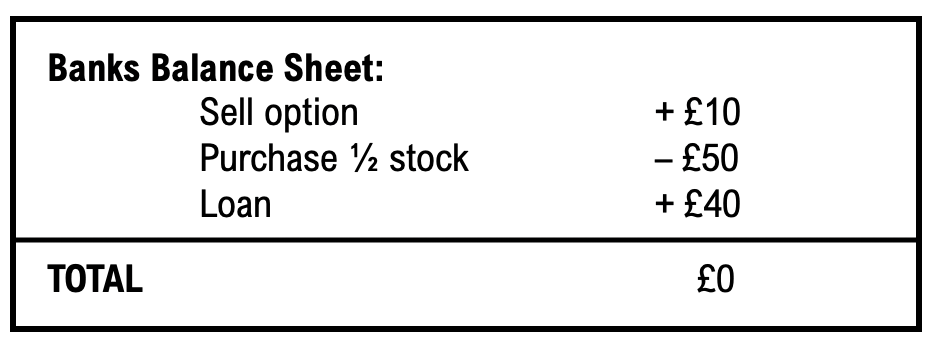
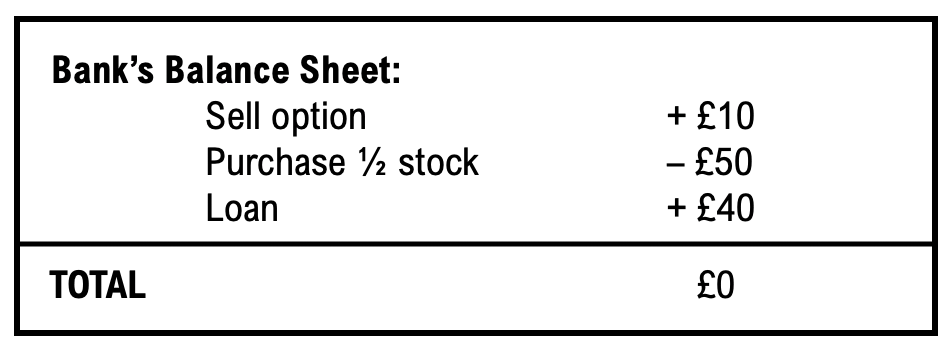
Edits to spelling and form

diff --git a/source/_posts/money-for-nothing.md b/source/_posts/money-for-nothing.md
@@ -14,21 +14,21 @@ description: "Who would have thought that such a seemingly obvious decision coul
 cover: /banners/money-for-nothing.jpg
 katex: true
 ---
-Utilising the concept of arbitrage can be a lucrative opportunity when done correctly. Yet somehow, when done incorrectly, the results can be even more propitious (at least for one of the parties involved). In this post, we will walk through a paradox related to arbitrage in which the seeming obvious fair price for an asset results in a strategy for obtaining infinite wealth.
+Utilising the concept of arbitrage can be a lucrative opportunity when done correctly. Yet somehow, when done incorrectly, the results can be even more propitious (at least for one of the parties involved). In this post, we will walk through a paradox related to arbitrage in which the seemingly obvious fair price for an asset results in a strategy for obtaining infinite wealth.
 
 ## The Financial Jargon
 {% note warning %}
-If you are already familiar with the notion of options and arbitrage, you may wish to skip to the [next section](#the-paradox).
+If you are already familiar with the notions of options and arbitrage, you may wish to skip to the [next section](#the-paradox).
 {% endnote %}
 To make this post inclusive to all, we will begin by offering a brief, requisite understanding of the financial vocabulary used in this post, before attempting to describe the paradox itself.
 
-In the financial world, it is hard to avoid the words _stocks_ and _shares_, so we will begin by defining these. A stock is a type of security that represents the ownership of a fraction of a company. This entitles the owner of the stock to a proportion of the corporation's assets and profits based on how much stock they own. A share is simply the smallest denomination of a company's stock and acts as a unit for measuring one's stake in a company.
+In the financial world, it is hard to avoid the words _stocks_ and _shares_, so we will begin by defining these. A stock is a type of security that represents the ownership of a fraction of a company. This entitles the owner of the stock to a fraction of the corporation's assets and profits proportional to how much stock they own. A share is simply the smallest denomination of a company's stock and acts as a unit for measuring one's stake in a company.
 
-Another key financial concept is that of the _option_. These are financial instruments based on the value underlying securities (such as stocks). Since the value of an option is dependent on the value of another financial asset (or assets), it is known as a derivative. An options contract offers the buyer the opportunity to buy or sell the underlying asset at within some fixed timeframe for a predetermined price. The two most common types of options are calls and puts; a call being that the holder can buy the asset and a put being that the holder can sell the asset. It is important to note, that an options contract puts the option owner under no obligation to buy/sell the asset within the agreed upon timeframe (unlike a futures contract). Instead, they are free to exercise only when it benefits them.
+Another key financial concept is that of the _option_. These are financial instruments based on the value of underlying securities (such as stocks). Since the value of an option is dependent on the value of another financial asset (or assets), it is a type of derivative. An options contract offers the buyer the opportunity to buy or sell the underlying asset within some fixed timeframe for a predetermined price. The two most common types of options are _calls_ and _puts_; a call allowing the holder to buy the asset whereas a put offers the sale. It is important to note, that an options contract puts the holder under no obligation to buy/sell the asset within the agreed upon timeframe (unlike a futures contract). Instead, they are free to exercise the option only when it benefits them financially.
 
-There are a several components of an options contract, such as the premium, strike price, expiration date, and contract size, but we will focus only on the premium and strike price in this post. The premium is the down payment that the holder of the contract pays for having this right to exercise an options trade. This is paid regardless of whether the holder exercises the option. The strike price is the price at which the holder of the option can buy/sell the underlying security if they decide to exercise it. Note, that this is a fixed price and so does not change, even though the value of the underlying security might.
+There are a several components of an options contract, such as the premium, strike price, expiration date, and contract size, but we will focus only on the premium and strike price in this post. The premium is the down payment that the holder of the contract pays for having the right to exercise an options trade. This is paid regardless of whether the holder exercises the option. The strike price is the price at which the holder of the option can buy/sell the underlying security if they decide to exercise it. Note, that this is a fixed price and so does not change, even though the value of the underlying security might.
 
-This brings us to _arbitrage_. Arbitrage is the act of simultaneously buying and selling assets or commodities in different markets or in derivative forms, to take advantage of different prices of the same asset. It exploits the price difference that arises as a result of market inefficiencies and is usually considered useful to markets, as it helps promote market efficiency. However, this opportunity is usually captured by automated trading software, making it nearly impossible for anyone to take advantage.
+This brings us to _arbitrage_. Arbitrage is the act of simultaneously buying and selling assets or commodities in different markets or in derivative forms, to take advantage of different prices of the same asset. It exploits the price difference that arises as a result of market inefficiencies and is usually considered useful to markets, as it helps to re-establish efficiency. However, this opportunity is usually captured by automated trading software, making it nearly impossible for anyone to take advantage of directly.
 
 ## The Paradox
 
@@ -38,32 +38,34 @@ Say one share of stock is currently worth $£100$. On top of this, by some sort 
 ![Illustration of the possible share price changes (Credit: Freepik.com)](/images/money-for-nothing/share_price.png)
 A options contract for the same asset has a strike price of $£105$. This implies that there is a $\frac{2}{3}$ chance of making a profit of $£15$ (the difference between the asset selling price and the strike price) and a $\frac{1}{3}$ of neither losing nor gaining money (since the holder wouldn't exercise the option in this case, as this would lead to losing money).
 ![Illustration of the options contract value (Credit: Freepik.com)](/images/money-for-nothing/option_value.png)
-This leaves us to ask what the fair price for such an option would be. The answer to this seems intuitive; if we have a $\frac{2}{3}$ chance of making $£15$, and a $\frac{1}{3}$ chance gaining nothing, then on average, we would expect to gain $\frac{2}{3} \times £15 + \frac{1}{3} \times £0 = £10$. Therefore, pricing the option at $£10$ seems to be the only logical option.
+This leaves us to ask what the fair price for such an option would be. The answer to this seems intuitive; if we have a $\frac{2}{3}$ chance of making $£15$, and a $\frac{1}{3}$ chance of gaining nothing, then on average, we would expect to gain $\frac{2}{3} \times £15 + \frac{1}{3} \times £0 = £10$. Therefore, pricing the option at $£10$ seems to be the only logical option.
 
-This is seemed like the obvious answer when I first say this problem, yet we will see that leads to a paradox. Furthermore, this isn't some sort of trivial, technical paradox, but rather a way for a bank to exploit us to generate an endless stream of cash!
+This seemed like the obvious answer when I first saw this problem, yet we will see that leads to a paradox. Furthermore, this isn't some sort of trivial, technical paradox, but rather a way for a bank to exploit us to generate an endless stream of cash.
 
 ### Breaking Down the Balance Sheet
 
-The process for such exploitation is devilishly simple. The bank starts by  selling an option for the price of $£10$ that we agreed upon above. They follow this by buying a half stock for $£50$. We will insist that, by the end of the day, the bank must have a net zero balance sheet, so they also take out a loan. For simplicity, we will assume that the loan is interest-free (e.g. they supplied the loan to themselves through savings) but the paradox would hold regardless.
-![The bank's day zero strategy](/images/money-for-nothing/day_zero.png)
+The process for such exploitation is devilishly simple. The bank starts by selling an option for the price of $£10$ that we agreed on above. They follow this by buying a half-stock for $£50$. We will insist that, by the end of the day, the bank must have a net zero balance sheet, so they also take out a loan. For simplicity, we will assume that the loan is interest-free but the paradox would hold regardless.
+![The bank's day zero strategy](/images/money-for-nothing/day_zero.png){% note info %}
+Pedants will note that a half-share breaks our definition of a share as the smallest denomination of a stock. This is true, though [fractional share trading](https://www.investopedia.com/terms/f/fractionalshare.asp) lets us get around this. This technically doesn't affect the logic of the paradox though, and we could simply double the quanity of all shares to avoid it.
+{% endnote %}
 By the following day, the share price will have either increased to $£120$ or decreased to $£90$. Let’s first consider the former possibility.
 
-In this case, the buyer will exercise the option, so the bank will need to pay out $£15$. On top of this, the bank has to pay back the loan of $£40$. It's not all gloom however, as the stock price has now increased, so their half-share is now worth $£60$. When we tally up the wins and losses, we see that the bank to have a tidy profit of $£5$.
+In this case, the buyer will exercise the option, so the bank will need to pay out $£15$. On top of this, the bank has to pay back the loan of $£40$. It's not all bad news though, as the stock price has now increased, leaving their half-share worth $£60$. When we tally up the wins and losses, we see that the bank has made a tidy profit of $£5$.
 ![The bank's day one strategy for share price increase](/images/money-for-nothing/day_one_up.png)
-In the case where the price drops to $£90$, the result is equally auspicious. The buyer won’t exercise the option, so no money is lost their, though the bank still has to pay back the $£40$ loan. The stock price may have dropped, but this still leaves the bank with a half-share worth $£45$. After crunching the numbers, we should be amazed to see that the bank has again made a profit of $£5$.
+In the case where the price drops to $£90$, the result is equally auspicious. The buyer won’t exercise the option, so no money is lost there, though the bank still has to pay back the $£40$ loan. The stock price may have dropped, but this still leaves the bank with a half-share worth $£45$. After crunching the numbers, we should be amazed to see that the bank has again made a profit of $£5$.
 ![The bank's day one strategy for share price increase](/images/money-for-nothing/day_one_down.png)
-There's no funny-business or mathematical slight of hand here; by using this strategy, the bank is **guaranteed** to make a profit (at our expense, no less). Additionally, by repeating this process or scaling up the numbers involved, the bank is left with what is essentially a monetary printing press.
+There's no funny-business or mathematical slight-of-hand here; by using this strategy, the bank is **guaranteed** to make a profit (at our expense, no less). Additionally, by repeating this process or scaling up the numbers involved, the bank is left with what is essentially a monetary printing press.
 
-Thankfully (or sadly, if banking is your thing), this is not how this problem goes in the real world. The chink is this paradox's armour was our initial assumption of what a fair price for the option would be. Now that we've seen the result of such a decision, it is clear that what may have seemed obviously true, was actually incorrect.
+Thankfully (or sadly, if banking is your thing), this is not how this problem goes in the real world. The chink is this paradox's armour was our initial assumption of what a fair price for the option would be. Now that we've seen the result of such a decision, it is clear that what may have seemed obviously true at first, was in fact incorrect.
 
-What we failed to account for was the risk associated with the option. Rather than using the raw expected value of the option as our baseline, we should instead use a risk-adjusted version. When we follow this procedure, we see that the correct premium should have been $£5$, not $£10$. We can confirm this by modifying the balance sheets to use this figure, at which point, the bank's easy profit evaporates.
+What we failed to account for was the risk associated with the option. Rather than using the raw expected value of the option for our valuation, we should instead use a risk-adjusted version. When we follow this procedure, we see that the correct premium should have been $£5$, not $£10$. We can confirm this by modifying the balance sheets to use this figure, at which point, the bank's easy profit evaporates.
 ![Day zero after risk adjustment](/images/money-for-nothing/day_zero_adj.png)
-We see in this case, that the reduced option price results in the bank requiring a slightly larger loan to balance the sheet.
+We see in this case, that the reduced option price results in the bank requiring a slightly larger loan to equalise losses.
 ![Day one after risk adjustment](/images/money-for-nothing/day_one_adj.png)
-This additional loan repayment balances the sheet on the next day so that no profit is made in either case.
+This additional loan repayment balances the sheet on the next day so that no profit is made in either scenario.
 
 ## Closing Remarks
 
-This paradox has been overly simplified, and in reality, the forces of supply and demand cut off most opportunity for arbitrage of this form. Nevertheless, this idea of arbitrage is used to price options. In 1973, Fisher Black and Myron Scholes used the method of repeated portfolio replication as well as an arbitrage argument to determine the price of an option. They were awarded for their work with a Nobel Prize, but unfortunately Fischer Black passed away before the award was given.
+This paradox has been overly simplified, and in reality, the forces of supply and demand cut off most opportunity for arbitrage of this form. Nevertheless, the notion of arbitrage is used extensively in practice to price options. For example, in 1973, Fisher Black and Myron Scholes used the method of repeated portfolio replication alongside an arbitrage argument to determine the price of an option. They were awarded with a Nobel Prize for their work, but unfortunately Fischer Black passed away before the award was given.
 
-I hope that this post has brought to light an interesting application of arbritage and inspired the reader to look further into the topic, especially with regrad to its practical applications. 
+I hope that this post has brought to light an interesting application of arbritage and inspired the reader to look further into the topic, especially with regard to its practical applications. Thank you for reading.
